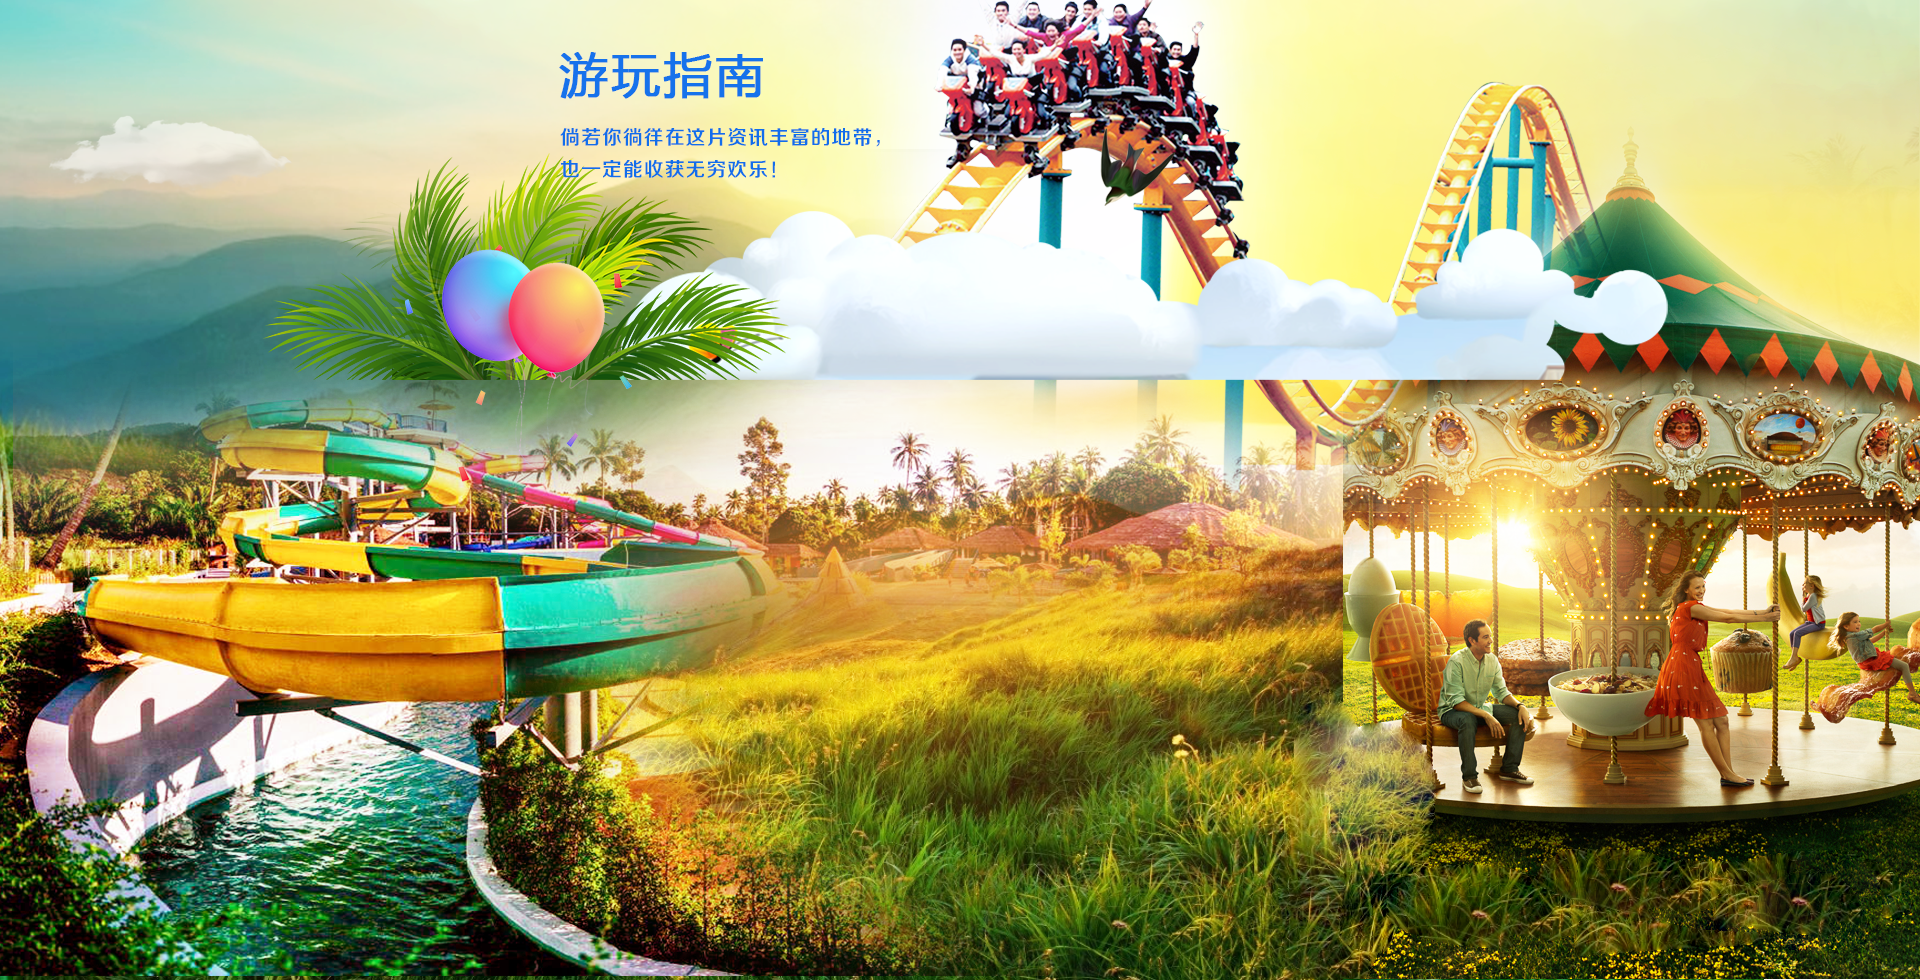
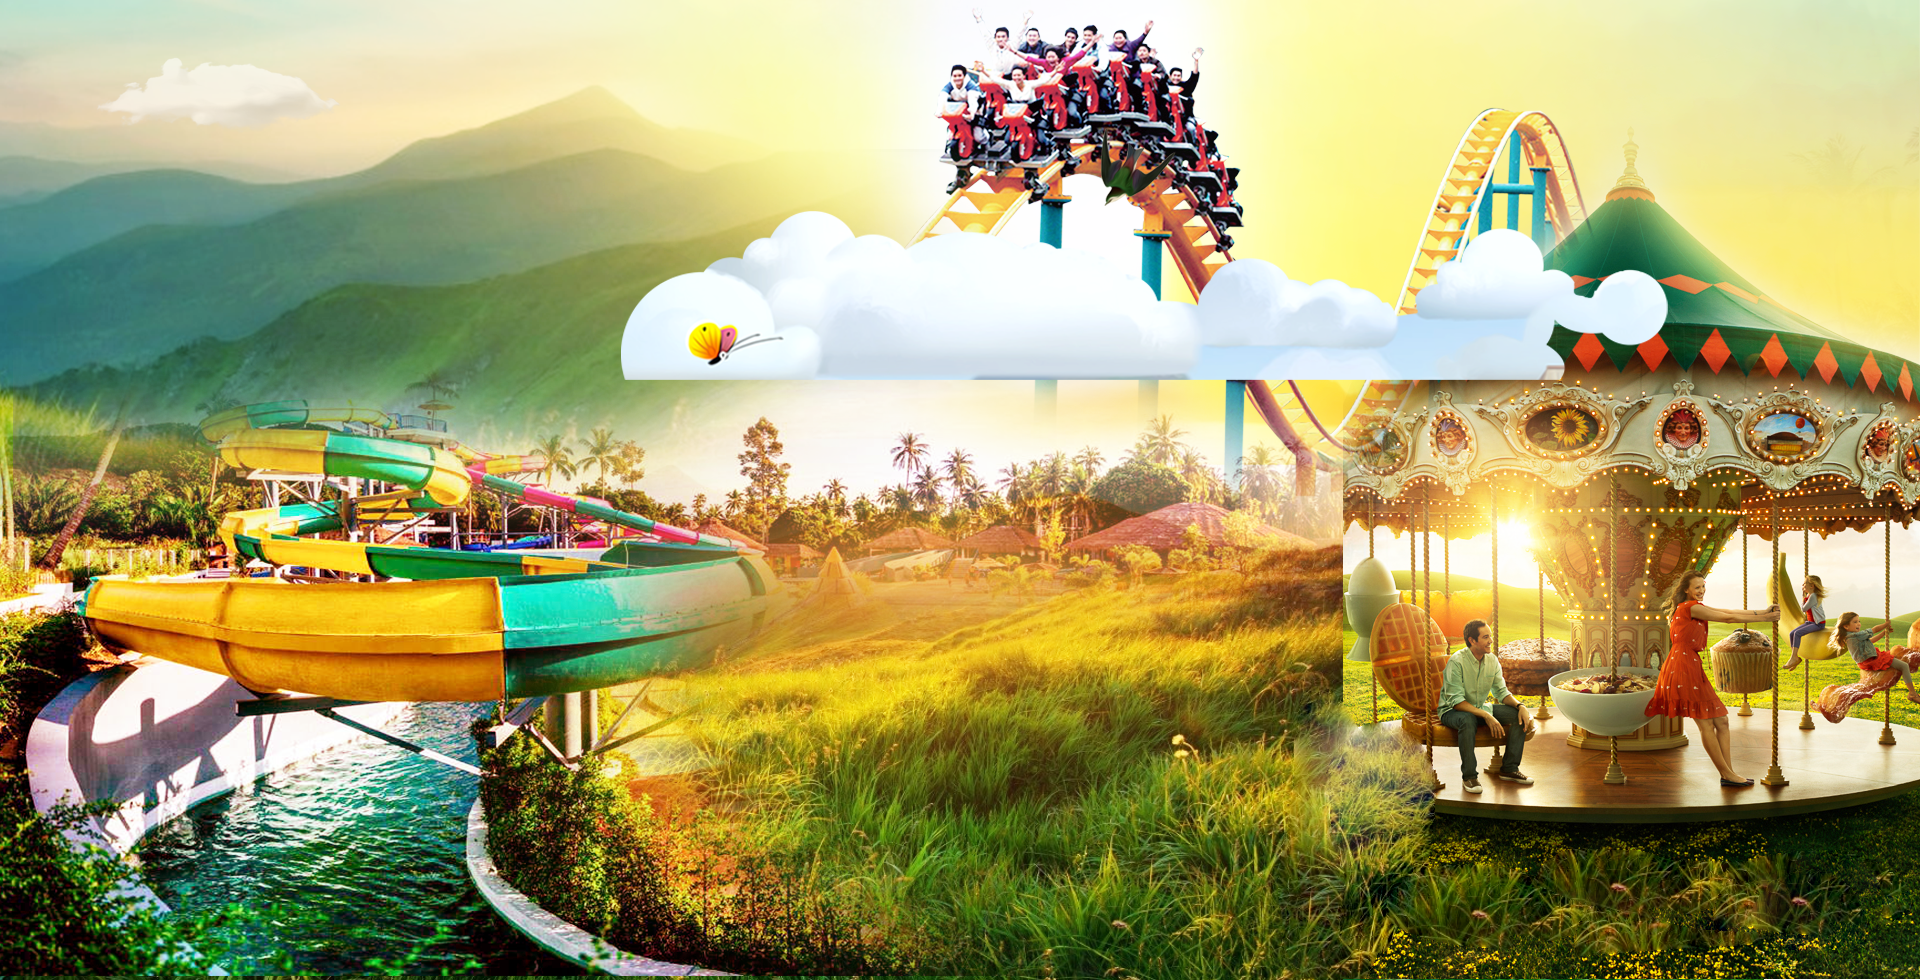
游玩指南修改

Changed region(s): [[0.0, 0.0, 0.6562, 0.4898], [0.7188, 0.0612, 0.8438, 0.3367], [0.625, 0.3673, 0.75, 0.5204]]

diff --git a/src/view/specialOffier/EventsDetail.vue b/src/view/specialOffier/EventsDetail.vue
@@ -1,0 +1,147 @@
+<template>
+	<!--
+		作者：lixiaoyi
+		时间：2018-12-24
+		描述：活动详情页面
+	-->
+	<div class="even" id="even">
+		<div class="r">
+			<div class="title clearDiv">
+				<div class="floatLeft">精彩活动</div>
+				<div class="floatRight location">当前位置>优惠活动</div>
+			</div>
+
+			<!-- 所有新闻 -->
+			<div class="main-new">
+				<div class="titles clearDiv">
+					<div class="title-left floatLeft">
+						<div class="one">{{data.infoTitle}}</div>
+						<div class="two">{{data.createTime}}&nbsp;&nbsp; 来源：富力海洋欢乐世界 浏览次数：65</div>
+					</div>
+					<router-link to="/specialOffier" tag="div" class="title-right floatRight">返回</router-link>
+				</div>
+				<div class="content">
+					<img src="../../assets/img/new-bg2.png">
+				</div>
+				<div>{{data.infoContent}}</div>
+			</div>
+		</div>
+	</div>
+</template>
+
+<script>
+	export default {
+		data() {
+			return {
+				data: {}
+			}
+		},
+		components: {
+
+		},
+		created() {
+			document.title = "新闻中心详情";
+		},
+		mounted() {
+			this.GetList();
+		},
+		methods: {
+			GetList() {
+				this.$post('http://192.168.2.61:2670/info/secondary/getInfo?infoId=' + this.$route.query.id).then((res) => {
+					console.log(res.data)
+					this.data = res.data
+				})
+			}
+		},
+	}
+</script>
+
+<style scoped="" lang="scss">
+	// 主体
+	.r {
+		position: relative;
+		height: 1200px;
+		width: 920px;
+		background-color: rgba(255, 255, 255, 1);
+		border-radius: 10px;
+		box-shadow: 0px 4px 13px 0px rgba(1, 12, 24, 0.15);
+		margin-top: 20px;
+
+		.title {
+			text-align: center;
+			font-size: 35px;
+			font-weight: bold;
+			color: rgba(238, 238, 238, 1);
+			width: 100%;
+			height: 91px;
+			line-height: 91px;
+			background: rgba(77, 175, 236, 1);
+			padding-left: 37px;
+			border-radius: 10px 10px 0 0;
+
+			.location {
+				height: 22px;
+				font-size: 14px;
+				font-family: FZZZHONGJW--GB1-0;
+				font-weight: 400;
+				color: rgba(255, 255, 255, 1);
+				line-height: 22px;
+				padding-left: 40px;
+				background: url(../../assets/img/new-4.png) no-repeat 15px 0;
+				margin-top: 50px;
+				margin-right: 34px;
+			}
+		}
+
+		.main-new {
+			padding: 31px 34px 0 37px;
+			width: 100%;
+
+			.titles {
+				padding-bottom: 10px;
+				border-bottom: 1px solid rgba(153, 153, 153, 1);
+
+				.title-left {
+					.one {
+						font-size: 16px;
+						font-weight: bold;
+						color: rgba(51, 51, 51, 1);
+					}
+
+					.two {
+						font-size: 12px;
+						font-weight: 400;
+						color: rgba(153, 153, 153, 1);
+						margin-top: 30px;
+					}
+				}
+
+				.title-right {
+					width: 76px;
+					height: 35px;
+					background: rgba(235, 235, 235, 1);
+					border: 1px solid rgba(210, 210, 210, 1);
+					text-align: center;
+					line-height: 35px;
+					font-size: 14px;
+					font-weight: 400;
+					color: rgba(102, 102, 102, 1);
+					margin-top: 18px;
+					cursor: pointer;
+				}
+			}
+
+			.content {
+				margin: 30px auto;
+				position: relative;
+				width: 681px;
+				height: 315px;
+				img{
+					width: 100%;
+					height: 100%;
+					display: block;
+				}
+			}
+		}
+	}
+</style>

diff --git a/src/view/Visitguide/ditu.vue b/src/view/Visitguide/ditu.vue
@@ -1,4 +1,9 @@
 <template>
+	<!--
+    	作者：lixiaoyi
+    	时间：2018-12-24
+    	描述：游玩指南
+    -->
 	<section>
 		<Header></Header>
 		<div class="risk">
@@ -542,6 +547,8 @@
 			width: 1200px;
 			margin: 0 auto;
 			height: 66px;
+			position: relative;
+			z-index: 10;
 			background: linear-gradient(180deg,
 				rgba(15, 107, 234, 1),
 				rgba(52, 142, 240, 1));
@@ -556,6 +563,17 @@
 				color: #fff;
 				padding: 26px 34px;
 				background: url(../../assets/img/new-4.png) no-repeat 15px center;
+			}
+			
+			&:after{
+				position: absolute;
+				left: -105px;
+				top: -227px;
+				z-index: 8;
+				content: " ";
+				width: 529px;
+				height: 227px;
+				background: url(../../assets/img/ditu-qq.png) no-repeat;
 			}
 		}
 

diff --git a/src/router/index.js b/src/router/index.js
@@ -43,6 +43,7 @@ const ditu = r => require.ensure([], () => r(require('@/view/Visitguide/ditu')),
 //优惠活动
 const SpecialOffier = r => require.ensure([], () => r(require('@/view/specialOffier/SpecialOffier')), 'SpecialOffier')
 const Events = r => require.ensure([], () => r(require('@/view/specialOffier/Events')), 'Events')
+const EventsDetail = r => require.ensure([], () => r(require('@/view/specialOffier/EventsDetail')), 'EventsDetail')
 //冒险之旅
 const Risk = r => require.ensure([], () => r(require('@/view/risk/Risk')), 'Risk')
 //动物百科
@@ -164,6 +165,10 @@ let router = new Router({
 				{
 					path: '/events',
 					component: Events,
+				},
+				{
+					path: '/EventsDetail',
+					component: EventsDetail
 				}
 			]
 		},

diff --git a/src/components/Header.vue b/src/components/Header.vue
@@ -79,8 +79,8 @@
 						<p>游玩指南</p>
 					</router-link>
 					<!-- 优惠活动 -->
-					<router-link to="/specialOffier" tag="li" class="active" :class="{'actives' : $route.path == '/specialOffier' || $route.path == '/events'}">
-						<template v-if="$route.path == '/specialOffier' || $route.path == '/events'">
+					<router-link to="/specialOffier" tag="li" class="active" :class="{'actives' : $route.path == '/specialOffier' || $route.path == '/events' || $route.path == '/EventsDetail'}">
+						<template v-if="$route.path == '/specialOffier' || $route.path == '/events' || $route.path == '/EventsDetail'">
 							<img src="../assets/img/header-6.png" alt>
 						</template>
 						<template v-else>

diff --git a/src/view/specialOffier/Events.vue b/src/view/specialOffier/Events.vue
@@ -25,7 +25,7 @@
             活动地址：
             <span>麦迪卡斯水乐园</span>
           </div>
-          <button @click="jumpDetail(item.id)">进入活动</button>
+          <button @click="jumpDetail('5c1f5349f8dac609dd5cd6b7')">进入活动</button>
         </div>
       </li>
     </ul>
@@ -56,7 +56,7 @@ export default {
     },
     jumpDetail(id) {
       this.$router.push({
-        path: "/",
+        path: "/EventsDetail",
         query: {
           id: id
         }
